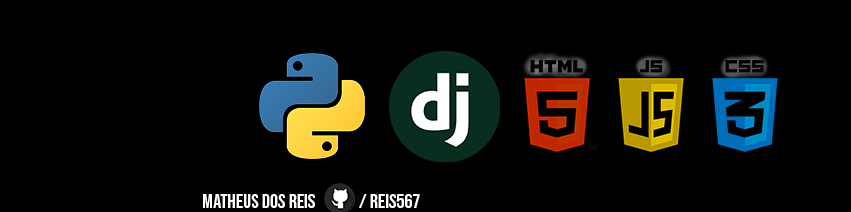
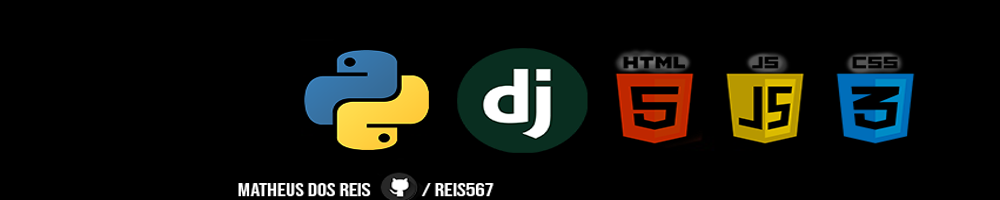
images pillow resize

Changed region(s): [[0.2139, 0.9, 0.3666, 0.99], [0.4277, 0.9, 0.4888, 0.99]]

diff --git a/chat/forms.py b/chat/forms.py
@@ -25,21 +25,23 @@ class UserProfileForm(forms.ModelForm):
         return banner
     
     def save(self, commit=True):
-            user_profile = super().save(commit=False)
+        user_profile = super().save(commit=False)
 
-            # Redimensiona a imagem do banner para 1000x200 pixels
-            if user_profile.banner:
-                banner_image = Image.open(user_profile.banner)
-                banner_image = banner_image.resize((1000, 200), Image.ANTIALIAS)
-                banner_image.save(user_profile.banner.path)
+        # Redimensiona a imagem do banner para 1000x200 pixels
+        if user_profile.banner:
+            banner_image = Image.open(user_profile.banner)
+            novo_tamanho=(1000,200)
+            banner_image = banner_image.resize(novo_tamanho,Image.LANCZOS)
+            banner_image.save(user_profile.banner.path)
 
-            # Redimensiona a imagem de perfil para 500x500 pixels
-            if user_profile.photo:
-                profile_image = Image.open(user_profile.photo)
-                profile_image = profile_image.resize((500, 500), Image.ANTIALIAS)
-                profile_image.save(user_profile.photo.path)
+        # Redimensiona a imagem de perfil para 500x500 pixels
+        if user_profile.photo:
+            profile_image = Image.open(user_profile.photo)
+            novo_tamanho=(500,500)
+            profile_image = profile_image.resize(novo_tamanho, Image.LANCZOS)
+            profile_image.save(user_profile.photo.path)
 
-            if commit:
-                user_profile.save()
+        if commit:
+            user_profile.save()
 
-            return user_profile
+        return user_profile
